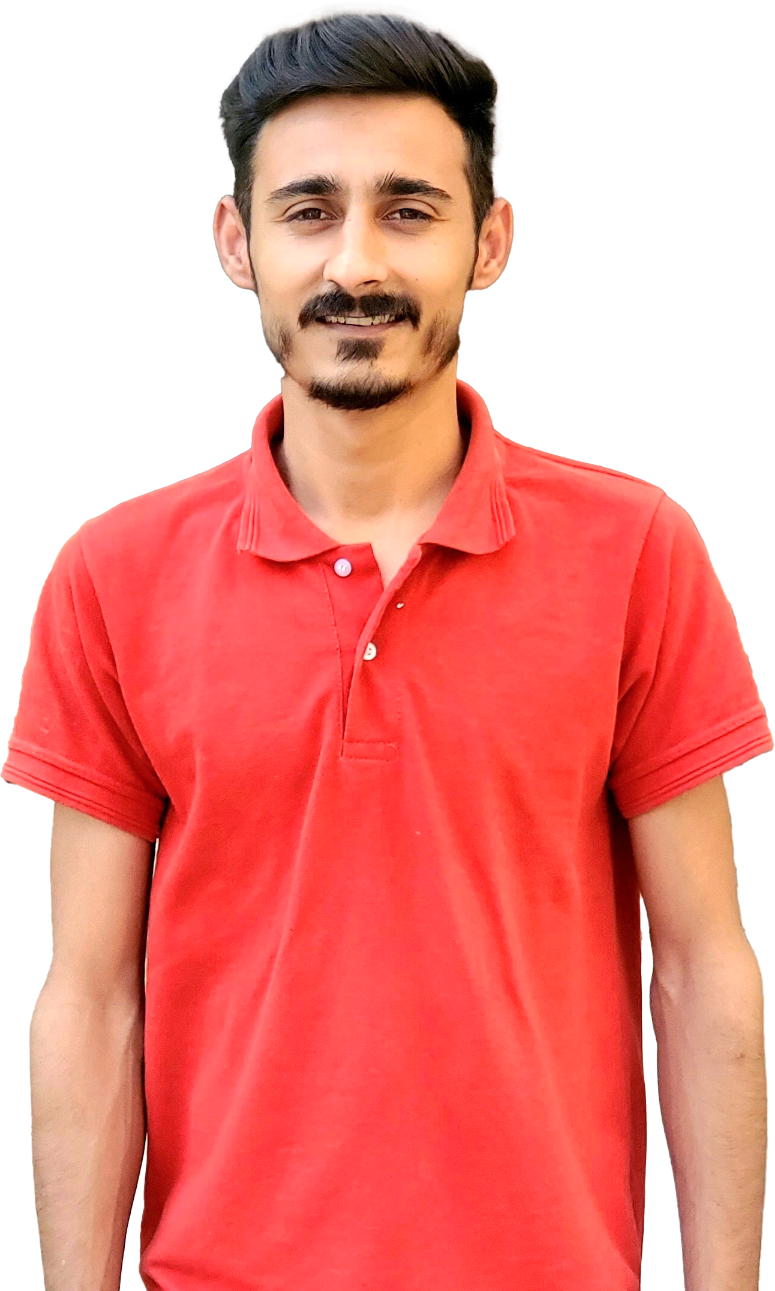
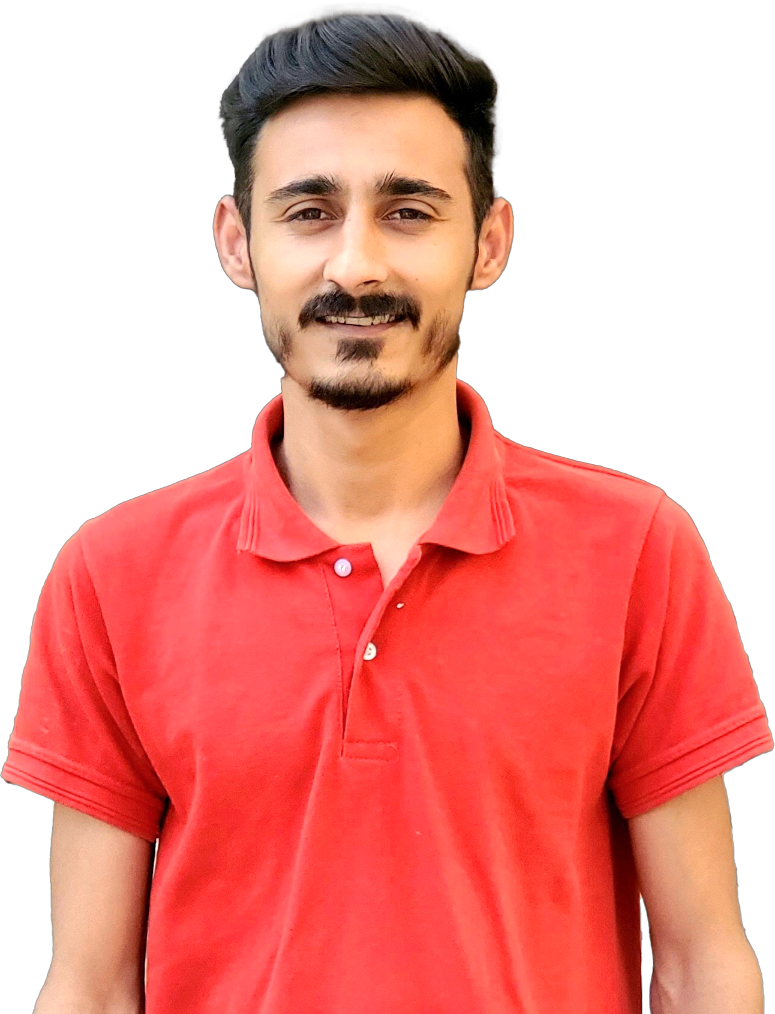
Profile Image update

diff --git a/src/components/Projects/Slider.jsx b/src/components/Projects/Slider.jsx
@@ -3,19 +3,21 @@ import Slider from 'react-slick';
 import Project from './Project';
 import { IoIosArrowBack, IoIosArrowForward } from "react-icons/io";
 import styled from 'styled-components';
-
+import mepco from'../../images/Mepco.PNG';
+import citizenmoniter from '../../images/citizen.PNG';
+import eops from '../../images/e-Operations.png';
 let data = [
     {
-        img : "https://res.cloudinary.com/ghazni/image/upload/v1661324124/Yt-portfolio/ui5_mnvdaw.png",
-        disc : "MEPCO smart is a web application developed in React with backend API's in.Net and SQL Server. This web app offers smart Meter consumers features: realtime monitoring of load, energy profiles, consumption and payment status,outage, energy advisor, bill estimator with 44 tariffs and initiation of customerservices, duplicatebill and online payment"
+        img : mepco,
+        disc : "MEPCO smart is a web application developed in React with backend API's in.Net and SQL Server. This web app offers smart Meter consumers features: realtime monitoring of load, consumption and payment status, energy advisor etc.. and customerservices, duplicatebill and online payment"
     },
     {
-        img : "https://res.cloudinary.com/ghazni/image/upload/v1661324074/Yt-portfolio/ui4_jku3ol.png",
+        img : citizenmoniter,
         disc : "An admin portal to display hierarchical dashboard stats of theft case along with role based operations on the submitted electricity theft case developed during the anti-theft campaign launched by ministry of energy (MoE) power division of Pakistan."
     },
     {
-        img : "https://res.cloudinary.com/ghazni/image/upload/v1661323981/Yt-portfolio/ui2_wtollo.png",
-        disc : "e-Ops is web portal is developed in React.js and backend in DotNet with SQL Server. This portal is used by field operations staff in all 10 Discos customer support centers to process consumers’ requests: new connection, change of attributes, bill correction, meter reading correction, complaints, meter change request, opt for smart meter etc"
+        img : eops,
+        disc : "e-Ops is web portal is developed in React.js and backend in DotNet with SQL Server. This portal is used by field operations staff in all 10 Discos customer support centers to process consumers’ requests: new connection applications, change of attributes, meter reading correction, complaints, opt for smart meter etc"
     },
     {
         img : "https://res.cloudinary.com/ghazni/image/upload/v1661323980/Yt-portfolio/ui3_akynn4.png",
@@ -32,7 +34,7 @@ var settings = {
     speed: 500,
     slidesToShow: 3,
     slidesToScroll: 1,
-    initialSlide: 0,
+    initialSlide: 2,
     arrows : false,
     responsive: [
       {

diff --git a/src/components/Banner/ProfComponent.jsx b/src/components/Banner/ProfComponent.jsx
@@ -16,9 +16,7 @@ const ProfComponent = () => {
           <h1 className="green">Abdullah Bin Tariq</h1>
           <h3>Front End Developer</h3>
           <p>
-            Lorem ipsum dolor sit amet consectetur adipisicing elit. Maiores,
-            iusto. Adipisci in qui officia provident tenetur sequi, deserunt
-            corporis quos?
+          An enthusiastic Front End Web Development developer with over 1 year of experience in enterprise software development. Proficient in utilizing React, JavaScript, CSS, and Bootstrap to create engaging and responsive web applications. A self-motivated individual with a strong passion for learning and keeping up with the latest industry trends. Possesses excellent problem-solving skills and a keen attention to detail, ensuring the delivery of high-quality and user-friendly web solutions.
           </p>
           <button>Let's talk</button>
           <Social>
@@ -46,7 +44,7 @@ const ProfComponent = () => {
       <Slide direction="right">
         <Profile>
           <img
-            // src={mypic}
+             src={mypic}
             alt="profile"
           />
         </Profile>
@@ -59,6 +57,7 @@ export default ProfComponent;
 
 const Container = styled.div`
   display: flex;
+  overflow: hidden;
   gap: 2rem;
   padding-top: 3rem;
   width: 80%;
@@ -148,6 +147,7 @@ const Social = styled.div`
 const Profile = styled.div`
   img {
     width: 25rem;
+    
     filter: drop-shadow(0px 10px 10px #01be9570);
     transition: transform 400ms ease-in-out;
     @media (max-width: 790px) {

diff --git a/src/components/Service/Card.jsx b/src/components/Service/Card.jsx
@@ -18,17 +18,17 @@ const Container = styled.div`
     width: 100%;
     background: linear-gradient(159deg, rgb(45, 45, 58) 0%, rgb(43, 43, 53) 100%);
     padding: 1rem;
-    text-align: center;
+    
     span{
         font-size: 4rem;
     }
     
     h1{
-        font-size: 1.2rem;
+        font-size: 1.3rem;
         padding-bottom: 1rem;
     }
 
     p{
-        font-size: 0.8rem;
+        font-size: 1rem;
     }
 `

diff --git a/src/App.js b/src/App.js
@@ -7,9 +7,10 @@ import Projects from "./components/Projects/Projects";
 import Services from "./components/Service/Services";
 function App() {
   return (
+    <>       
+    <Header />
     <Container>
       <Banner>
-        <Header />
         <ProfComponent />
       </Banner>
       <Services />
@@ -21,6 +22,8 @@ function App() {
         <Footer />
       </LightColor>
     </Container>
+    </>
+
   );
 }
 

diff --git a/src/components/Projects/Projects.jsx b/src/components/Projects/Projects.jsx
@@ -8,8 +8,7 @@ const Projects = () => {
     <Container id='project'>
         <Zoom>
             <h1>Recent <span className="green">Projects</span></h1>
-            <p>Lorem ipsum dolor sit, amet consectetur adipisicing elit. Architecto doloremque 
-            voluptate excepturi porro sed totam quis animi dolorum rerum earum.</p>
+       
         </Zoom>
         <Slide>
             <SliderComp/>

diff --git a/src/components/Banner/Header.jsx b/src/components/Banner/Header.jsx
@@ -36,7 +36,10 @@ const Container = styled.div`
     width: 80%;
     margin: 0 auto;
     padding: 1.5rem 0;
-    position: relative;
+    position: sticky;
+    
+    top: 0;
+    z-index: 1000; /* Add z-index for stacking context */
     animation: header 500ms ease-in-out;
     @media(max-width: 840px){
         width: 90%;

diff --git a/src/components/Projects/Project.jsx b/src/components/Projects/Project.jsx
@@ -48,7 +48,7 @@ const Container = styled.div`
     
         p{
             width: 90%;
-            font-size: 0.8rem;
+            font-size: 0.7rem;
             a{
                 margin-left: 0.4rem;
                 color: red;
